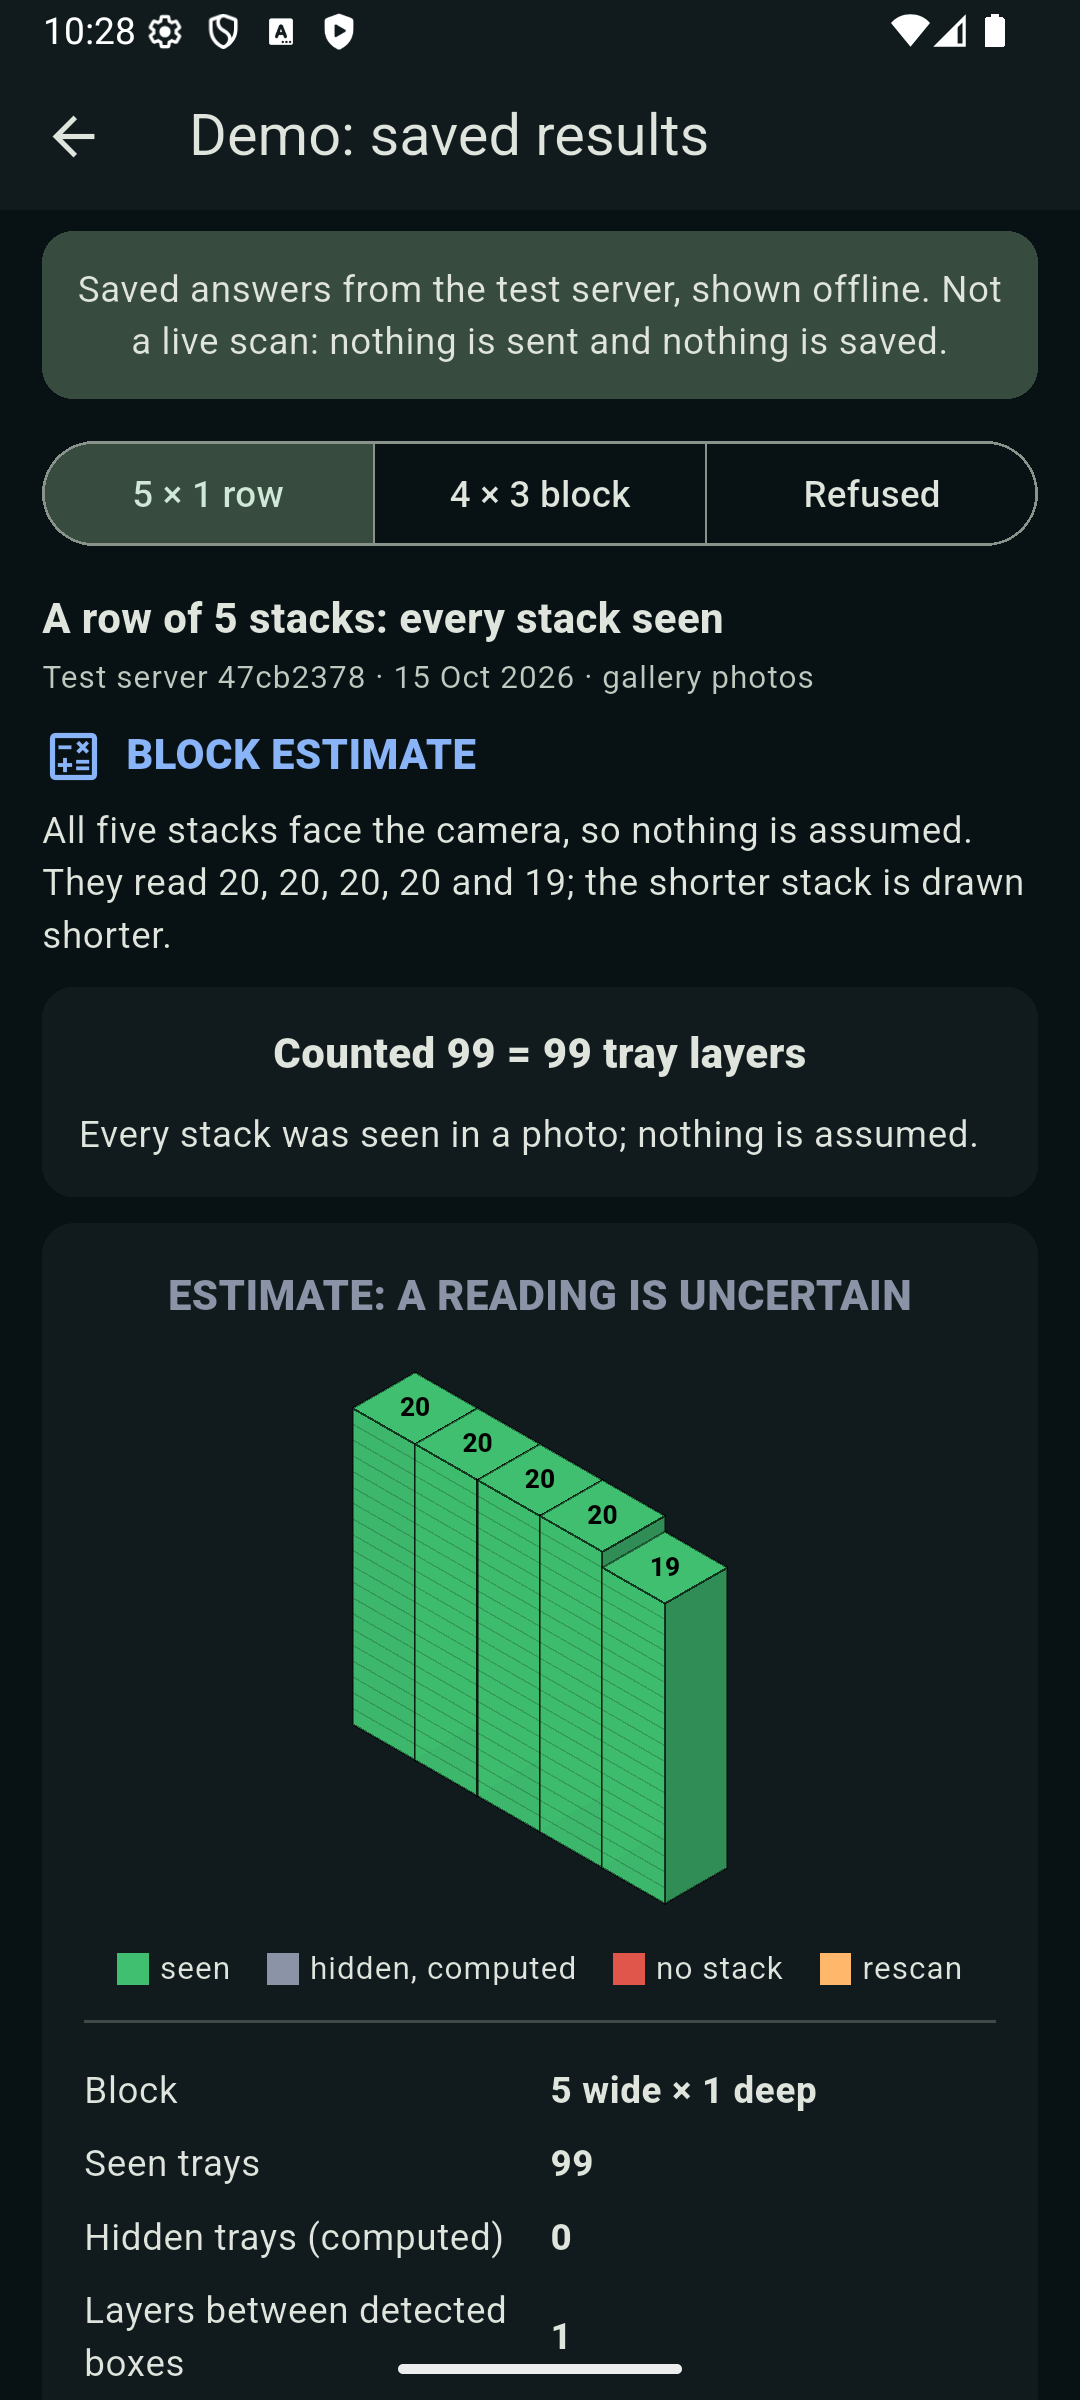
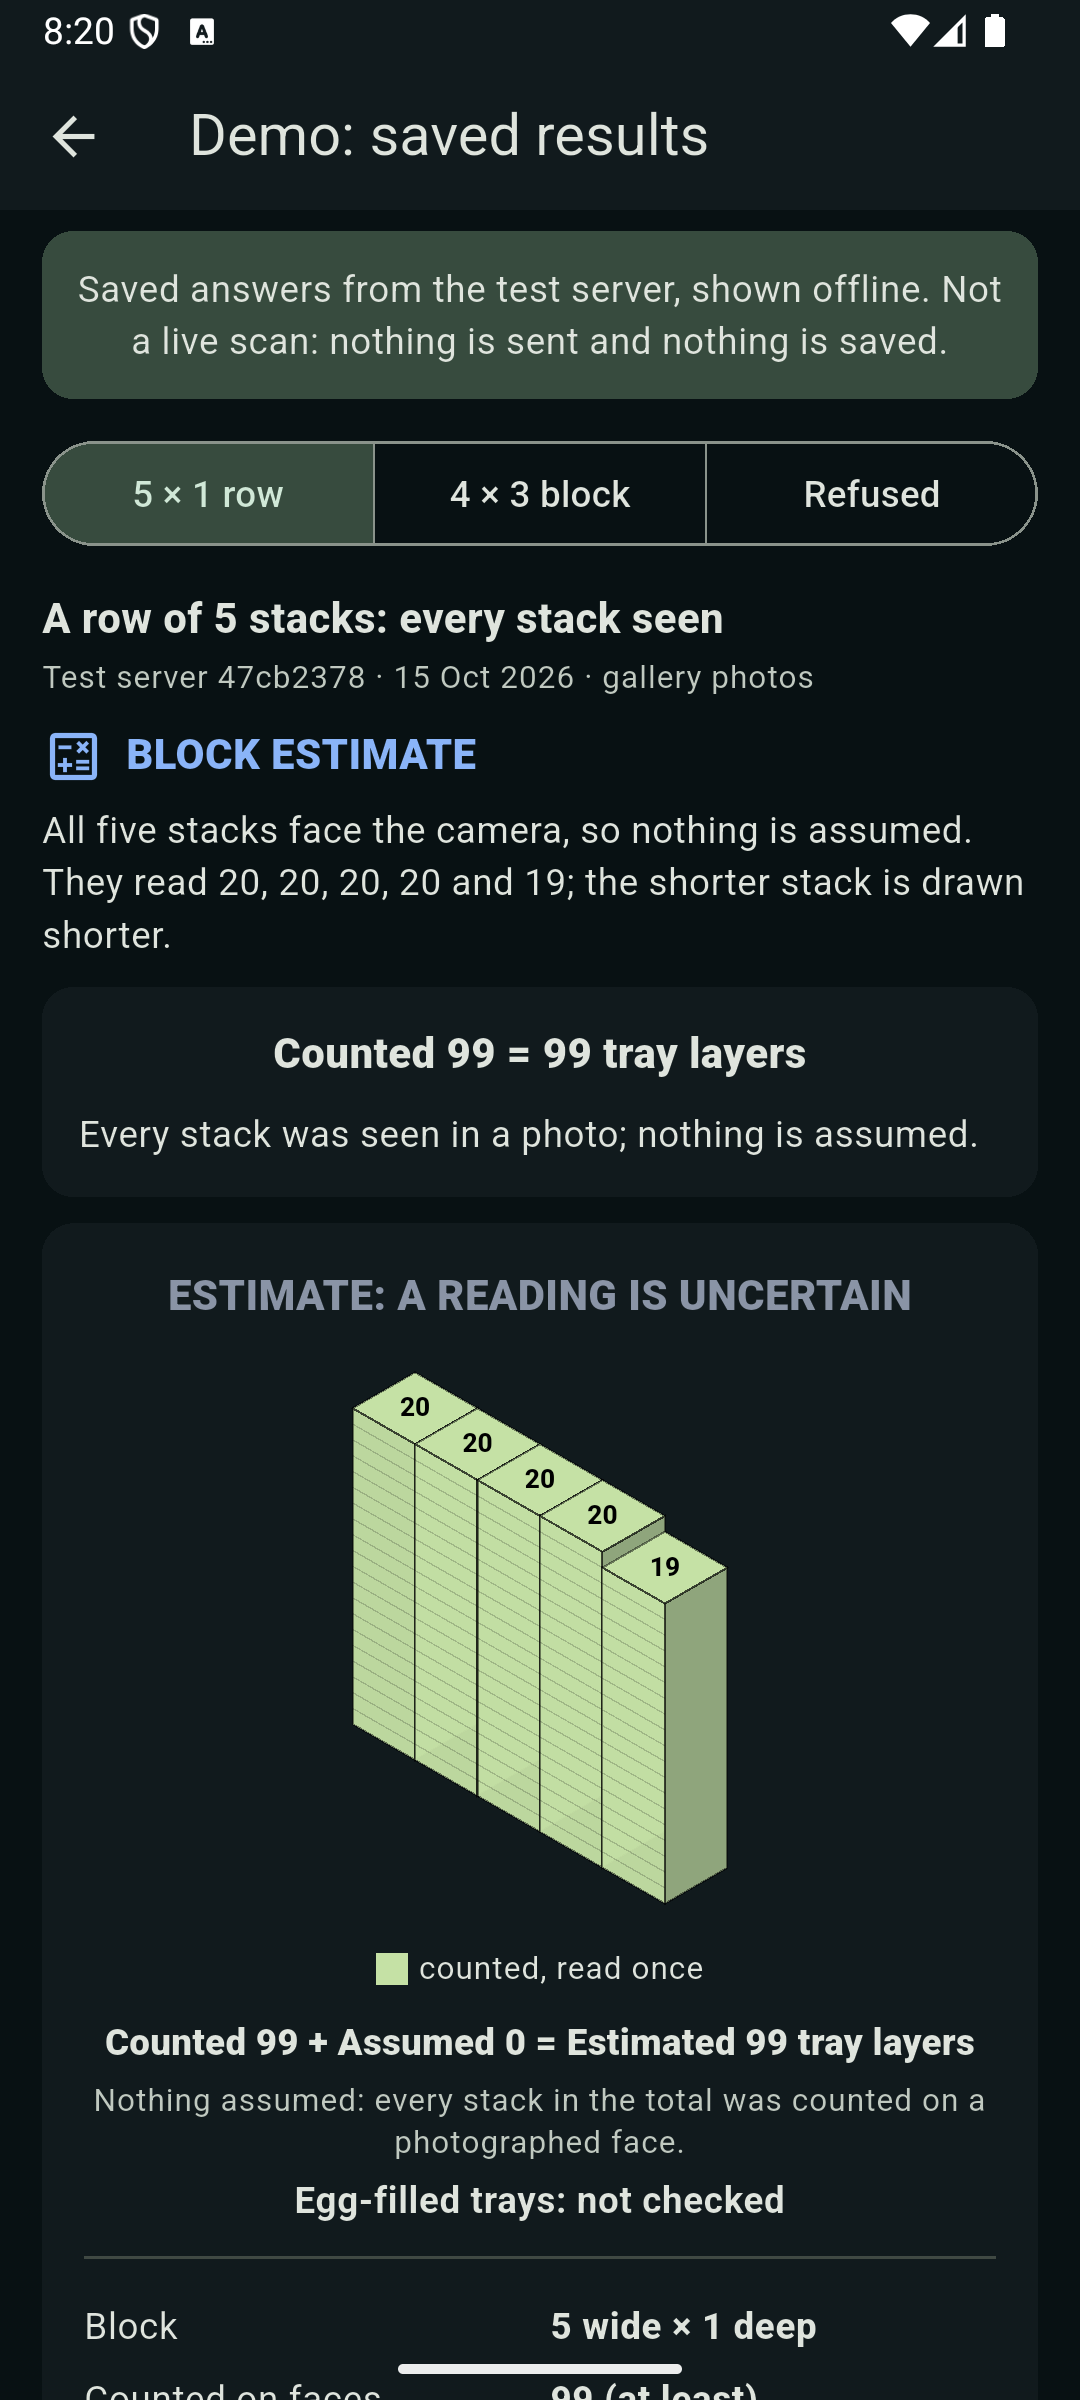
App 0.6.0+29: no eggs on a block, no figure on a withheld block, demo refreshed
- Block panel: removed "Eggs if every tray is full" (tray layers only);
  the "if every hidden stack is there" range shows only on a released
  total; the assumed row drops "(N checked from the top)", which also
  counted stacks tapped missing.
- Declaration pane no longer says "can never be CONFIRMED".
- Version 0.6.0+29; cheat sheet, screenshots, PROGRESS.md, context.md.

Verified: flutter test 252/252, dart analyze clean, Worker npm test
214 tests 210 pass 0 fail 4 todo. APK built, signed, installed on the
emulator only.

diff --git a/mobile/lib/features/scan_flow/block_view.dart b/mobile/lib/features/scan_flow/block_view.dart
@@ -721,12 +721,10 @@ class BlockPanel extends StatelessWidget {
                 _Row('Seen by one photo only', '$single'),
               ],
               ..._countRows(split),
-              if (!gridModel) ...[
-                if (block.filledTrays > 0)
-                  _Row('Layers between detected boxes', '${block.filledTrays}'),
-                // Egg occupancy is not measured: 30 per tray is capacity.
-                _Row('Eggs if every tray is full', '${block.totalEggs ?? '—'}'),
-              ],
+              // No eggs row: occupancy is not measured, and a block is reported
+              // in tray layers only (user decision, 3 Nov 2026).
+              if (!gridModel && block.filledTrays > 0)
+                _Row('Layers between detected boxes', '${block.filledTrays}'),
               if (gridModel && inventory != null) ..._inventoryRows(inventory),
             ],
             ..._evidenceRows(small),
@@ -814,7 +812,6 @@ class BlockPanel extends StatelessWidget {
     final stacks = split.assumedStacks;
     final hasAssumed = assumed == null || assumed > 0 || (stacks ?? 0) > 0;
     final range = split.estimatedRange;
-    final checked = split.topChecked;
     final exact = block.displayStatus == kBlockExact;
     return [
       _Row(
@@ -827,8 +824,9 @@ class BlockPanel extends StatelessWidget {
           stacks == null
               ? 'Assumed in hidden stacks'
               : 'Assumed in ${_plural(stacks, 'hidden stack', 'hidden stacks')}',
-          '${assumed ?? 'unknown'}'
-          '${checked == null ? '' : ' ($checked checked from the top)'}',
+          // The top-checked count also covers stacks tapped missing, so it is
+          // stated against all hidden stacks in the assumption line instead.
+          '${assumed ?? 'unknown'}',
           key: const ValueKey('assumed-row'),
         ),
       if (split.released)
@@ -837,7 +835,8 @@ class BlockPanel extends StatelessWidget {
           '${split.estimated}',
           key: const ValueKey('estimate-row'),
         ),
-      if (range != null && hasAssumed)
+      // A withheld block shows no whole-block figure, the range included.
+      if (range != null && hasAssumed && split.released)
         _Row(
           "If every hidden stack is there at its neighbours' heights",
           rangeWords(range),

diff --git a/mobile/test/evidence_grid_test.dart b/mobile/test/evidence_grid_test.dart
@@ -809,7 +809,7 @@ void main() {
       expect(find.text('Counted on faces'), findsOneWidget);
       expect(find.text('157 (at least)'), findsOneWidget);
       expect(find.text('Assumed in 4 hidden stacks'), findsOneWidget);
-      expect(find.text('79 (0 checked from the top)'), findsOneWidget);
+      expect(find.text('79'), findsOneWidget);
       expect(find.text('Estimate'), findsOneWidget);
       expect(
         find.text("If every hidden stack is there at its neighbours' heights"),
@@ -861,7 +861,9 @@ void main() {
         ),
         findsOneWidget,
       );
-      expect(find.text('101–120'), findsOneWidget);
+      // No whole-block figure on a withheld block, the range included.
+      expect(find.text('101–120'), findsNothing);
+      expect(find.byKey(const ValueKey('range-row')), findsNothing);
       expect(find.byKey(const ValueKey('estimate-row')), findsNothing);
     });
 

diff --git a/mobile/test/block_result_test.dart b/mobile/test/block_result_test.dart
@@ -334,7 +334,8 @@ void main() {
     expect(find.text('ESTIMATE: A READING IS UNCERTAIN'), findsOneWidget);
     expect(find.textContaining('straight_layers=20'), findsOneWidget);
     expect(find.text('Layers between detected boxes'), findsOneWidget);
-    expect(find.text('Eggs if every tray is full'), findsOneWidget);
+    // Tray layers only: no egg figure for a block.
+    expect(find.textContaining('Eggs'), findsNothing);
     // An older server: no two-photo split, the counted row instead.
     expect(find.text('Counted on faces'), findsOneWidget);
     expect(find.text('Seen by two photos'), findsNothing);

diff --git a/mobile/lib/features/scan_flow/declaration_pane.dart b/mobile/lib/features/scan_flow/declaration_pane.dart
@@ -357,7 +357,7 @@ class _DeclarationPaneState extends State<DeclarationPane> {
           child: const Text('SKIP DECLARATION'),
         ),
         Text(
-          'Without a declaration the result can never be CONFIRMED.',
+          'A declaration lets the app check the block size against the photos.',
           textAlign: TextAlign.center,
           style: theme.textTheme.bodySmall,
         ),

diff --git a/mobile/test/declaration_pane_test.dart b/mobile/test/declaration_pane_test.dart
@@ -103,7 +103,7 @@ void main() {
       expect(skipped, [true]);
       expect(declared, isEmpty);
       expect(
-        find.text('Without a declaration the result can never be CONFIRMED.'),
+        find.text('A declaration lets the app check the block size against the photos.'),
         findsOneWidget,
       );
     });

diff --git a/mobile/lib/app/app_version.dart b/mobile/lib/app/app_version.dart
@@ -1,4 +1,4 @@
 /// The version this build reports to the server (manual counts, device
 /// registration) and stores in history rows. It must equal `version:` in
 /// pubspec.yaml; test/app_version_test.dart fails when the two drift apart.
-const kAppVersion = '0.5.1+28';
+const kAppVersion = '0.6.0+29';

diff --git a/PROGRESS.md b/PROGRESS.md
@@ -1,5 +1,38 @@
 # Progress
 
+## 2026-11-04 (latest) - offline demo, real work merged, app 0.6.0+29 (Claude Code, `rollout/0.4.12-staging`)
+
+For the faculty demo on the morning of 4 Nov. **Local only: nothing pushed or deployed. Staging still runs 0.5.0
+(52a1d5e8); production 4c1480e6 untouched.**
+- **Offline demo** (`db66925`, app 0.5.1+28): home button "DEMO — SAVED RESULTS (NOT A LIVE SCAN)" opens
+  `mobile/lib/features/demo/demo_screen.dart`, three saved test-server answers bundled in `mobile/assets/demo/`
+  (99-tray row, 4 x 3 field block 105 counted + 60 assumed = 165, L-100 refused). Nothing is sent or saved.
+  Cheat sheet `docs/DEMO_CHEAT_SHEET_20261104.md`; screenshots `reports/demo-20261104/`.
+- **Merged** `real/worker-0.6.0` (`c63f497`) and `real/app-evidence-grid` (`8ad17f4`); conflicts only in PROGRESS.md
+  and context.md, both entries kept. Worker 0.6.0 stays undeployed (its deploy gate needs an app that reads
+  `suggested_inputs`: app 0.6.0+29 now does).
+- **Fixes after an independent review of the app branch** (no crash and no arithmetic error on the 12 saved 0.6.0
+  answers or the 3 demo answers): removed "Eggs if every tray is full" from the block panel (it showed 4950 on the
+  4 x 3 demo, capacity on 60 assumed trays); the "if every hidden stack is there" range is hidden on a withheld block;
+  the assumed row no longer says "(N checked from the top)" (that count includes stacks tapped missing); the
+  declaration pane no longer says "can never be CONFIRMED".
+- **Version** 0.6.0+29 (`pubspec.yaml`, `app_version.dart`).
+- **Verified (measured):** Worker `npm test` 214 tests, 210 pass, 0 fail, 4 todo; `dart analyze` no issues;
+  `flutter test` 252 of 252 (one earlier full run had one failure in `pending_scan_test.dart` that passed alone and on
+  the next full run: the intermittent failure the app branch also saw, still not identified).
+- **APK** `egg-tray-counter-0.6.0-demo-staging.apk` (repo root, git-ignored): 63,888,684 bytes, SHA-256 prefix
+  a8320338f21a54f9, versionName 0.6.0 / versionCode 29, signer SHA-256 29013b98…, 0 hits for the staging admin token
+  or the keystore password in the APK or its unpacked files. Installed on the emulator (emulator-5554); the demo's
+  three tabs render (screenshots in `reports/demo-20261104/`, replaced with the 0.6.0+29 view): the 4 x 3 block shows
+  4 see-through "~15" stacks, the eggs row is gone. **Not installed on the Redmi** (needs the user's OK).
+- **Next:** with the user's OK, `adb install -r egg-tray-counter-0.6.0-demo-staging.apk` on the Redmi and check
+  Settings points at the staging URL before any live scan (the default is production). Push after the demo, with the
+  user's OK. Then: the user's call on Decision 1 (corrected) and contract §6; staging deploy of Worker 0.6.0 with
+  approval; the farm day with physical counts.
+- **Open review notes (not fixed, not on the demo data):** the old-format fallback split does not check that counted
+  + assumed adds up to the total; `traySplitLine` prints "Assumed 0" when the assumed part is unknown; taller/shorter
+  badges of neighbouring hidden stacks can overlap; the demo header uses the raw status, not `displayStatus`.
+
 ## 2026-11-03 - app 4b: evidence classes and the counted/assumed split (Claude Code, branch real/app-evidence-grid)
 
 Plan 4 app work 4b, built from the 0.6.0 final design in parallel with the offline demo. App code only: no Worker

diff --git a/docs/DEMO_CHEAT_SHEET_20261104.md b/docs/DEMO_CHEAT_SHEET_20261104.md
@@ -1,4 +1,4 @@
-# Demo cheat sheet, 4 Nov 2026 (app 0.5.1+28, "DEMO — SAVED RESULTS")
+# Demo cheat sheet, 4 Nov 2026 (app 0.6.0+29, "DEMO — SAVED RESULTS")
 
 The demo screen shows three answers the **test server** gave earlier. They are bundled in the app
 (`mobile/assets/demo/`), shown offline, never sent and never saved to history. It is not a live scan.
@@ -13,6 +13,14 @@ The demo screen shows three answers the **test server** gave earlier. They are b
 
 The 4 × 3 answer came from an older server (f5776f0d). Today's server holds that block back until a
 CORNER photo confirms its depth.
+
+**In the drawing (app 0.6.0+29):** stacks read on a face are solid with one tick per tray; stacks no photo saw
+are see-through ("~15", no ticks); the empty spot is a dashed outline. Solid = counted, see-through = assumed.
+
+**The next server (Worker 0.6.0, built and tested offline, not deployed):** replaying the same 4 × 3 photos with
+the block size declared as 4 × 3 and a CORNER photo gives the same split, **105 counted + 60 assumed = 165**, and
+adds a range of **163–167** (the spread of the neighbouring faces). This replay used made-up camera headings and a
+synthetic CORNER photo, so it shows the rule, not a new measurement.
 
 ## How the hidden trays are worked out (the 4 × 3 screen, step by step)
 

diff --git a/context.md b/context.md
@@ -1,4 +1,8 @@
-> 2026-11-03 (latest): Worker 0.6.0 evidence grid (branch `real/worker-0.6.0`, local, not deployed);
+> 2026-11-04 (latest): Worker 0.6.0 and app 4b merged into `rollout/0.4.12-staging` (local, not pushed, not
+> deployed); app 0.6.0+29 with the offline demo ("DEMO — SAVED RESULTS (NOT A LIVE SCAN)"). Staging still runs 0.5.0.
+> Block results are in tray layers only: the "Eggs if every tray is full" row is removed from the block panel.
+>
+> 2026-11-03: Worker 0.6.0 evidence grid (branch `real/worker-0.6.0`, local, not deployed);
 > contract docs/GRID_CONTRACT_0.6.0.md. Do not deploy it before an app that reads `suggested_inputs` (app 4b).
 > - **Decisions (user defaults of 3 Nov):** deep-block totals are estimates, never `confirmed`; hidden stacks are shown
 >   as assumed at their neighbours' face height, kept apart from counted ones; tray layers, never eggs or rupees.
